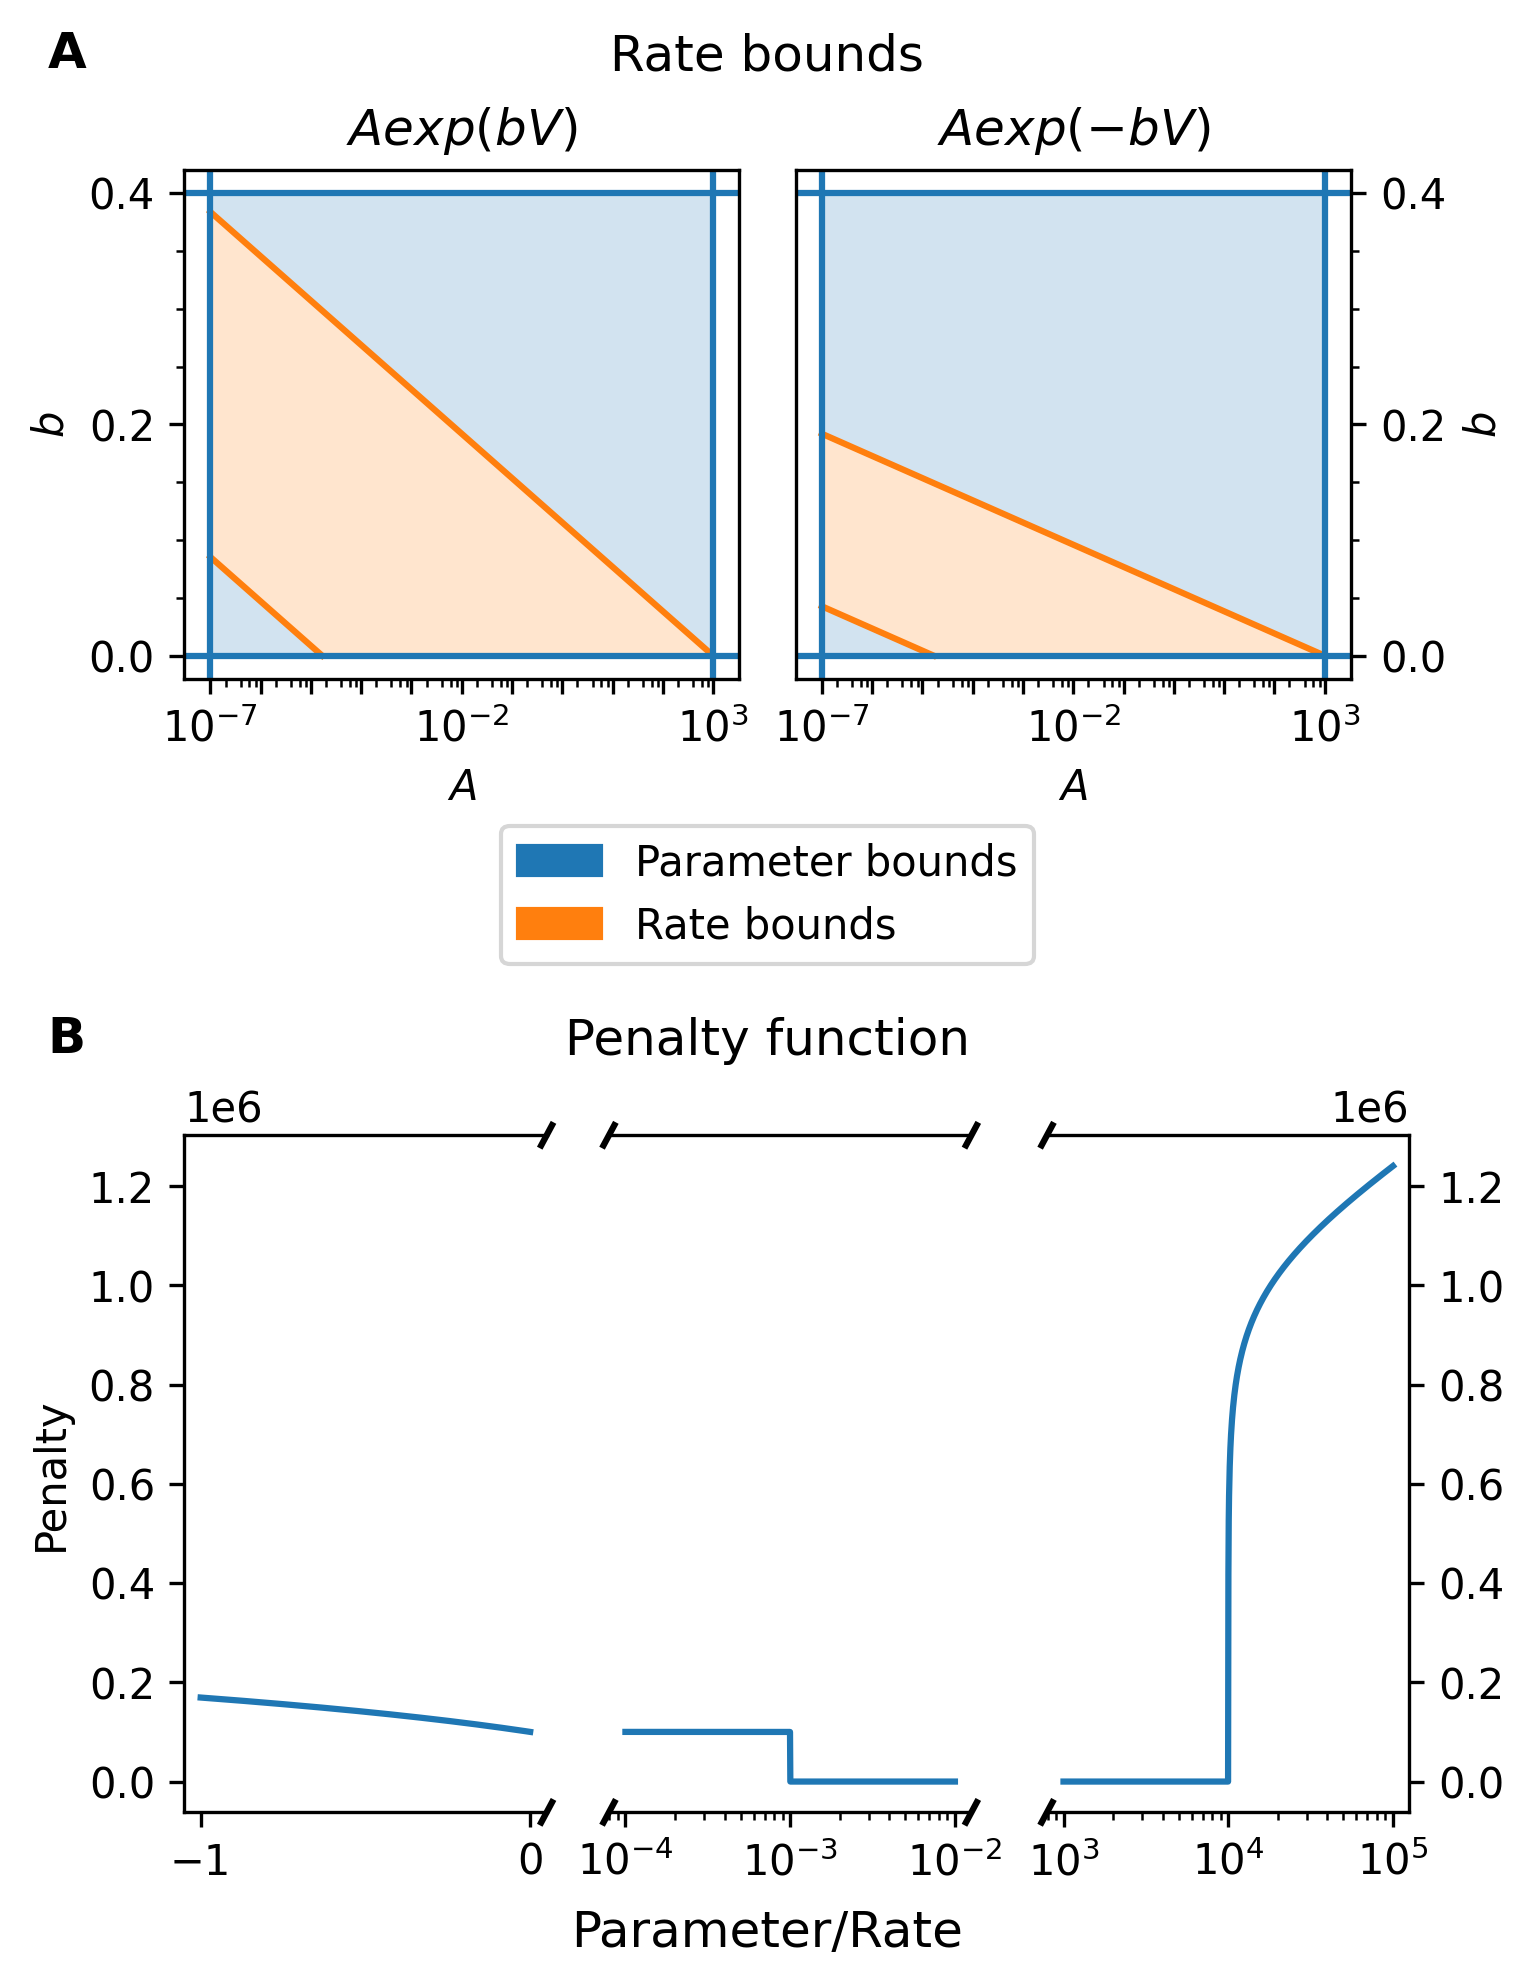
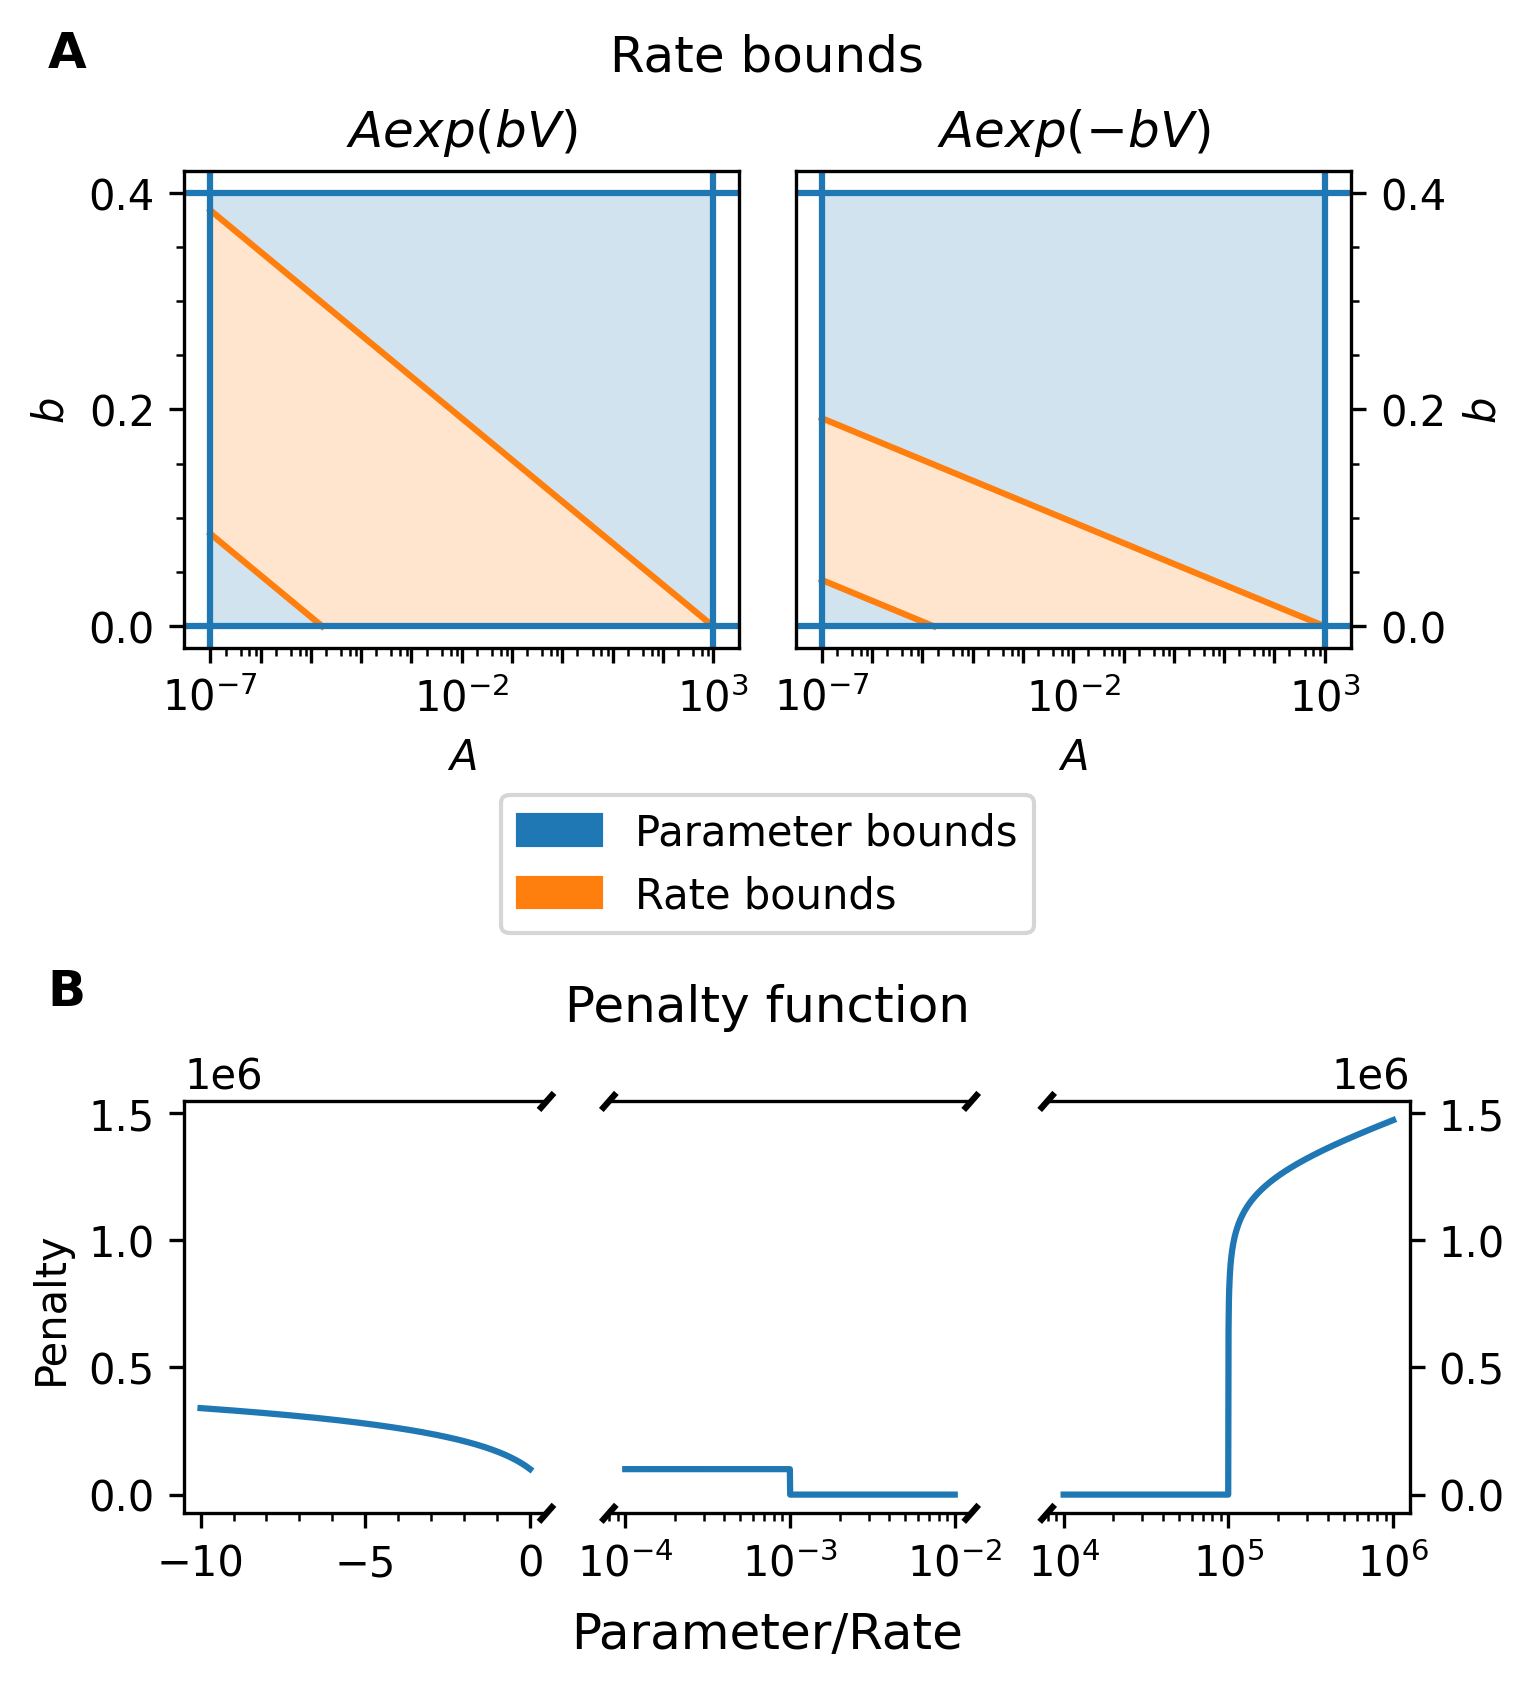
tweaked rate bounds figure

diff --git a/scripts/rateBounds.py b/scripts/rateBounds.py
@@ -34,8 +34,8 @@ def paper_plot():
     """
     Plot the figure for the rate bounds in the paper.
     """
-    fig = plt.figure(figsize=(5, 6.5), constrained_layout=True)
-    subfigs = fig.subfigures(2, 1)
+    fig = plt.figure(figsize=(5, 5.5), constrained_layout=True)
+    subfigs = fig.subfigures(2, 1, height_ratios = [4,3])
     axTops = subfigs[0].subplots(1, 2)
 
     # Plot the rate bounds
@@ -99,11 +99,11 @@ def paper_plot():
     ax1 = axBot[0]
     ax2 = axBot[1]
     ax3 = axBot[2]
-    pl = np.linspace(-1, 0, 1000)
+    pl = np.linspace(-10, 0, 1000)
     pm = np.logspace(-4, -2, 1000)
-    pu = np.logspace(3, 5, 1000)
+    pu = np.logspace(4, 6, 1000)
     lb = 1e-3
-    ub = 1e4
+    ub = 1e5
 
     @np.vectorize
     def pen(pi, lb, ub):
@@ -136,8 +136,10 @@ def paper_plot():
     ax2.spines['right'].set_visible(False)
     # Move the ticks to the right side
     ax3.yaxis.tick_right()
-    ax1.set_xticks([-1, 0])
-
+    ax1.set_xticks([0, -5, -10])
+    ax1.xaxis.set_minor_locator(AutoMinorLocator())
+    
+    
     # Add diagonal lines // to the split
     d = .015  # "/" size
     kwargs = dict(transform=ax1.transAxes, color='k', clip_on=False)
